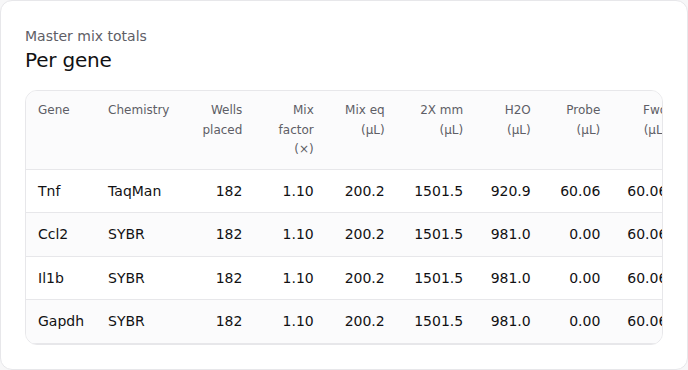
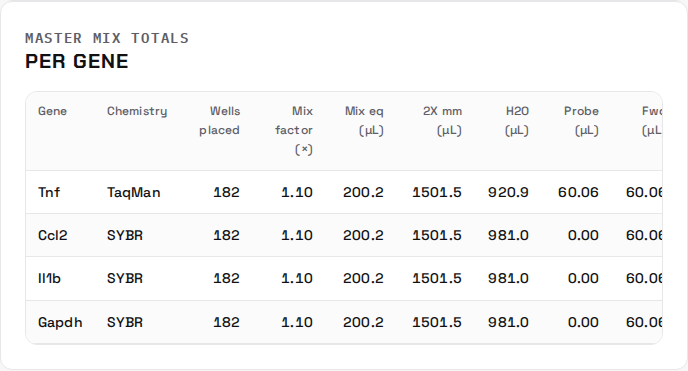
feat: neo-brutal typography refresh

diff --git a/modern-app/src/App.css b/modern-app/src/App.css
@@ -27,8 +27,9 @@
   margin: 0;
   font-size: 24px;
   line-height: 1.25;
-  letter-spacing: -0.01em;
-  font-weight: 500;
+  letter-spacing: var(--tracking-display);
+  font-weight: 700;
+  text-transform: uppercase;
 }
 
 .hero .tag {
@@ -38,6 +39,9 @@
   font-size: 14px;
   color: var(--text-2);
   margin-bottom: var(--s-2);
+  font-family: var(--font-mono);
+  letter-spacing: var(--tracking-label);
+  text-transform: uppercase;
 }
 
 .lede {
@@ -63,9 +67,12 @@
   border: 1px solid var(--border);
   background: var(--surface-2);
   color: var(--text-2);
-  font-weight: 500;
+  font-weight: 600;
   font-size: 12px;
   line-height: 1;
+  font-family: var(--font-mono);
+  letter-spacing: var(--tracking-label);
+  text-transform: uppercase;
 }
 
 .pill.ghost {
@@ -116,14 +123,18 @@
   margin-top: var(--s-1);
   color: var(--text);
   font-size: 20px;
-  font-weight: 500;
+  font-weight: 700;
+  letter-spacing: var(--tracking-display);
 }
 
 .kicker {
   font-size: 14px;
-  font-weight: 500;
+  font-weight: 600;
   color: var(--text-2);
   margin: 0;
+  font-family: var(--font-mono);
+  letter-spacing: var(--tracking-label);
+  text-transform: uppercase;
 }
 
 .muted {
@@ -168,8 +179,9 @@
   margin: 0;
   font-size: 20px;
   line-height: 1.35;
-  letter-spacing: -0.01em;
-  font-weight: 500;
+  letter-spacing: var(--tracking-display);
+  font-weight: 700;
+  text-transform: uppercase;
 }
 
 .tabs {

diff --git a/modern-app/src/index.css b/modern-app/src/index.css
@@ -1,3 +1,5 @@
+@import url("https://fonts.googleapis.com/css2?family=Chakra+Petch:wght@500;600;700&family=IBM+Plex+Mono:wght@400;500;600&family=Space+Grotesk:wght@400;500;600;700&display=swap");
+
 :root {
   --bg: #f7f7f8;
   --surface: #ffffff;
@@ -24,8 +26,13 @@
 
   --shadow-1: 0 1px 2px rgba(0, 0, 0, 0.06);
 
-  --font-sans: Inter, system-ui, -apple-system, Segoe UI, Roboto, Arial, sans-serif;
-  --font-mono: ui-monospace, SFMono-Regular, Menlo, Monaco, Consolas, "Liberation Mono", monospace;
+  --font-display: "Chakra Petch", "Space Grotesk", system-ui, sans-serif;
+  --font-body: "Space Grotesk", system-ui, sans-serif;
+  --font-sans: var(--font-body);
+  --font-mono: "IBM Plex Mono", ui-monospace, SFMono-Regular, Menlo, Monaco, Consolas, "Liberation Mono", monospace;
+
+  --tracking-display: 0.06em;
+  --tracking-label: 0.12em;
 
   --content-max: 720px;
   --t-fast: 140ms ease-out;
@@ -122,6 +129,19 @@ body {
   color: var(--text);
   font-size: 16px;
   line-height: 1.6;
+  font-weight: 500;
+  letter-spacing: 0.01em;
+}
+
+h1,
+h2,
+h3,
+h4,
+h5 {
+  font-family: var(--font-display);
+  font-weight: 700;
+  text-transform: uppercase;
+  letter-spacing: var(--tracking-display);
 }
 
 a {

diff --git a/README.md b/README.md
@@ -2,7 +2,7 @@
 
 Modern React + FastAPI app for qPCR plate calculations. The web app lives in `modern-app/`.
 
-Latest UI (refreshed Dec 1, 2025 via `npm run test:e2e`, mock with 80 samples):
+Latest UI (refreshed Dec 25, 2025 via `npm run test:e2e`, mock with 80 samples):
 
 | App overview | Plate preview | Output table | Master mix |
 | --- | --- | --- | --- |
